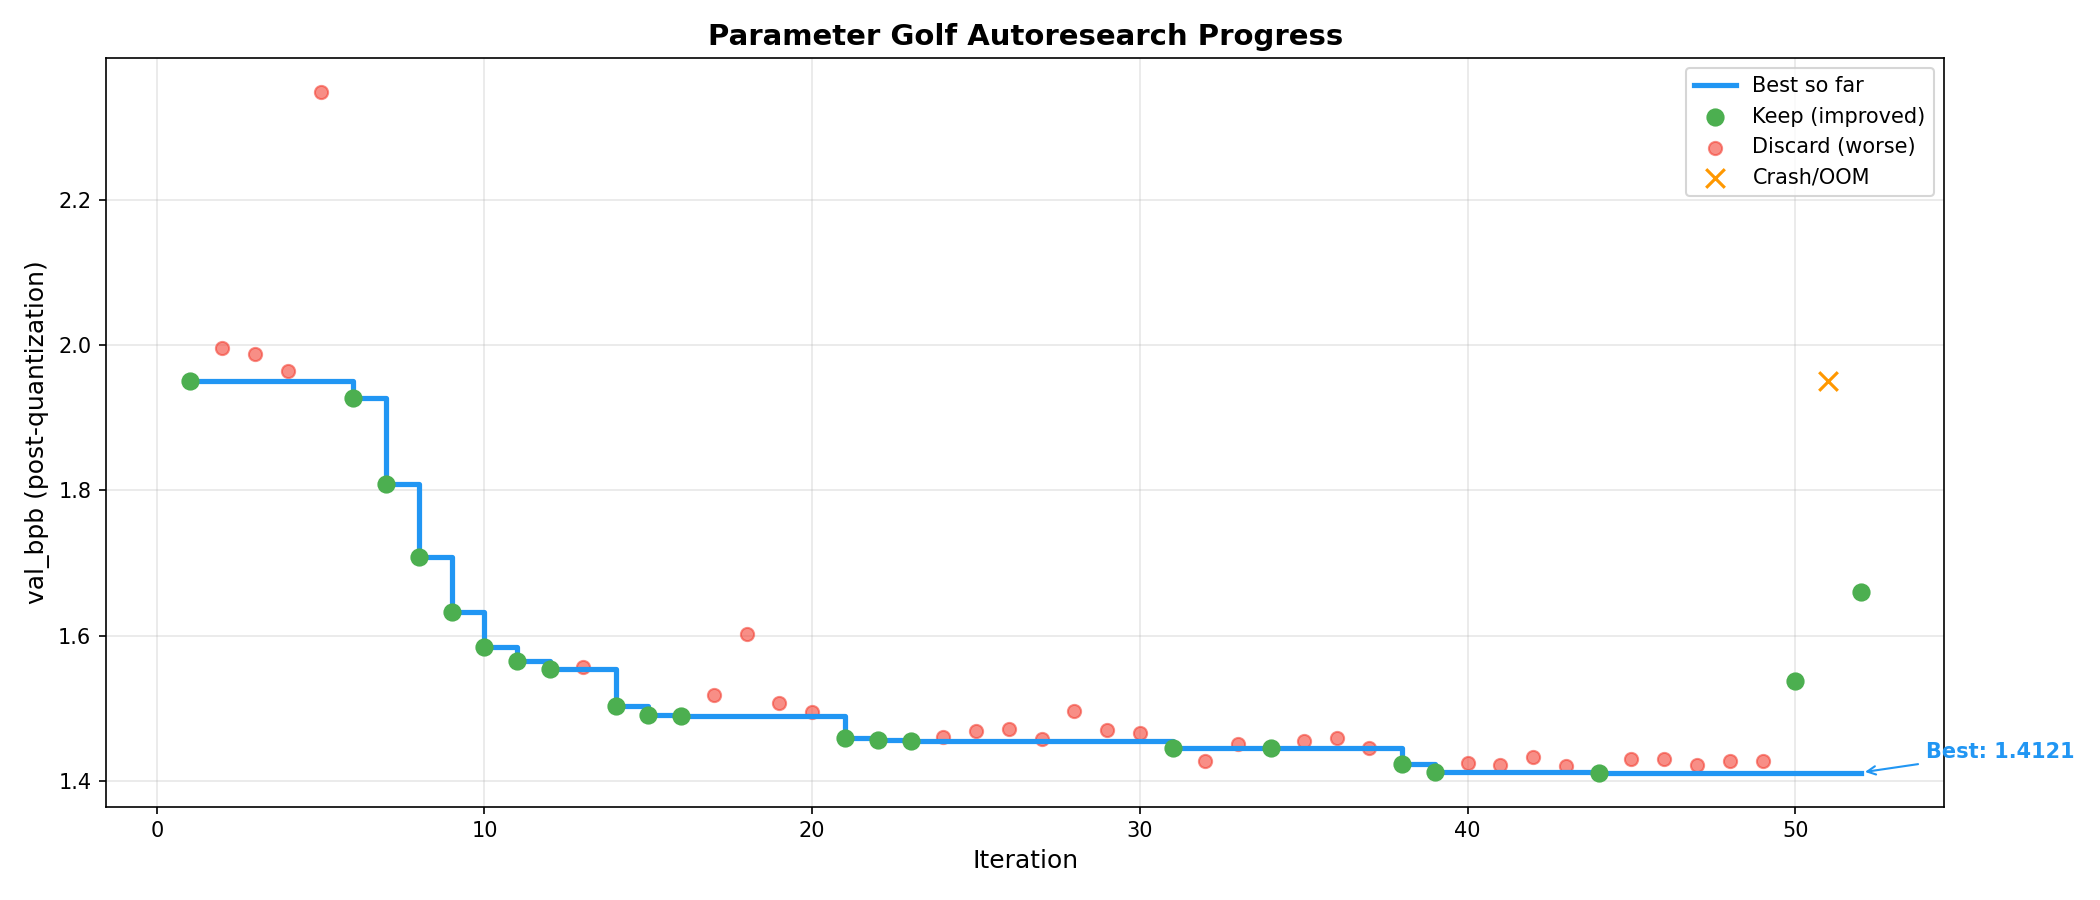
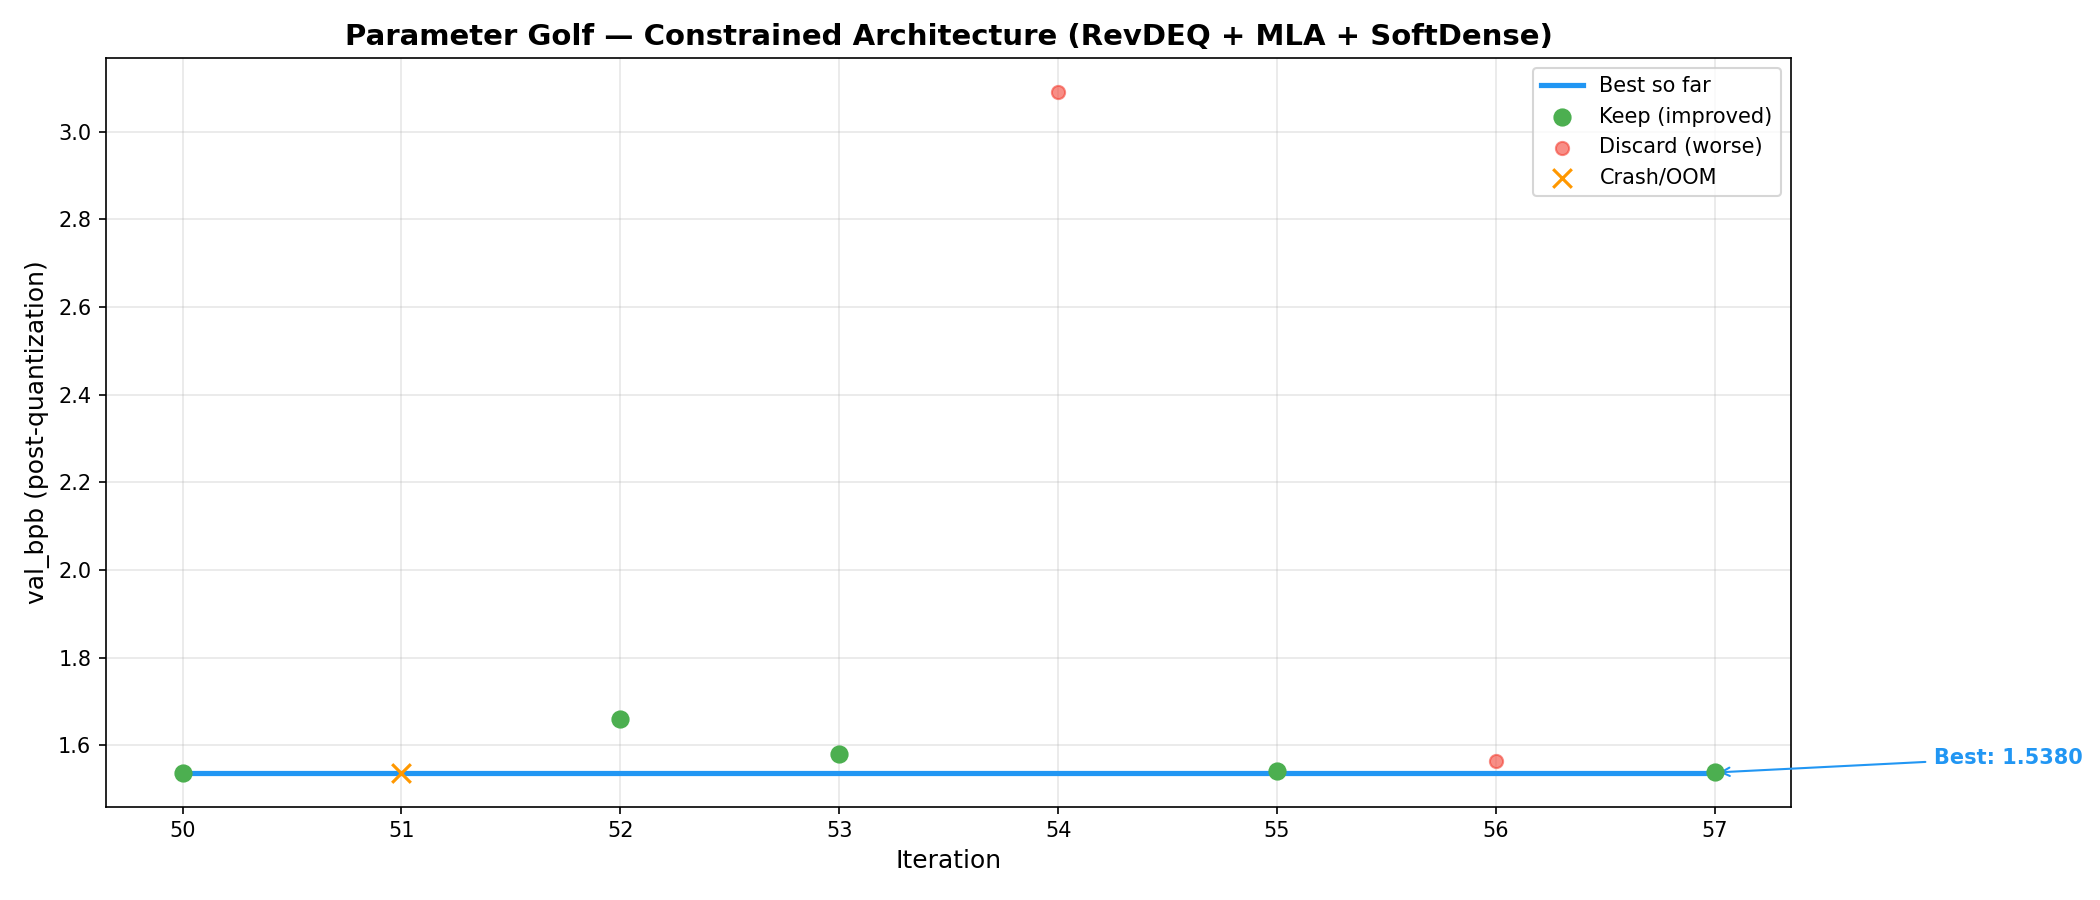
experiment: constrained DEQ with lr=0.10 (lower LR for shared block)
Shared block accumulates gradients across DEQ iterations.
Lower LR may prevent instability from accumulated gradients.

diff --git a/experiments/plot_progress.py b/experiments/plot_progress.py
@@ -1,6 +1,70 @@
-"""Generate autoresearch progress plot from results.tsv."""
-import sys
+"""Generate autoresearch progress plot from results.tsv.
+
+Generates two plots:
+1. progress.png — constrained-only iterations (satisfying RevDEQ+MLA+SoftDense)
+2. progress_full.png — all iterations including unconstrained exploration
+"""
 from pathlib import Path
+
+# Constrained iterations start at this index (0-based) in results.tsv
+CONSTRAINED_START_KEYWORD = "constraint"  # rows with this keyword in description
+
+
+def plot_subset(rows, start_idx, title, outpath, annotate_best=True):
+    """Plot a subset of results."""
+    import matplotlib
+    matplotlib.use("Agg")
+    import matplotlib.pyplot as plt
+
+    fig, ax = plt.subplots(1, 1, figsize=(14, 6))
+    xs_keep, ys_keep = [], []
+    xs_discard, ys_discard = [], []
+    xs_crash, ys_crash = [], []
+    best_bpb = float("inf")
+    best_xs, best_ys = [], []
+
+    for i, (bpb, status, desc) in enumerate(rows):
+        x = start_idx + i + 1
+        if status == "keep":
+            xs_keep.append(x)
+            ys_keep.append(bpb)
+            if bpb < best_bpb:
+                best_bpb = bpb
+            best_xs.append(x)
+            best_ys.append(best_bpb)
+        elif status == "crash":
+            xs_crash.append(x)
+            ys_crash.append(max(ys_keep) if ys_keep else 2.0)
+        else:
+            xs_discard.append(x)
+            ys_discard.append(bpb)
+
+    if best_xs:
+        ax.step(best_xs, best_ys, where="post", color="#2196F3", linewidth=2.5,
+                label="Best so far", zorder=3)
+    ax.scatter(xs_keep, ys_keep, c="#4CAF50", s=60, zorder=4, label="Keep (improved)")
+    ax.scatter(xs_discard, ys_discard, c="#F44336", s=40, alpha=0.6, zorder=2, label="Discard (worse)")
+    if xs_crash:
+        ax.scatter(xs_crash, ys_crash, c="#FF9800", s=80, marker="x", zorder=5, label="Crash/OOM")
+
+    ax.set_xlabel("Iteration", fontsize=12)
+    ax.set_ylabel("val_bpb (post-quantization)", fontsize=12)
+    ax.set_title(title, fontsize=14, fontweight="bold")
+    ax.legend(loc="upper right", fontsize=10)
+    ax.grid(True, alpha=0.3)
+
+    if annotate_best and best_xs:
+        ax.annotate(f"Best: {best_bpb:.4f}",
+                   xy=(best_xs[-1], best_ys[-1]),
+                   xytext=(best_xs[-1] + 1, best_ys[-1] + 0.02),
+                   fontsize=10, fontweight="bold", color="#2196F3",
+                   arrowprops=dict(arrowstyle="->", color="#2196F3"))
+
+    plt.tight_layout()
+    plt.savefig(str(outpath), dpi=150)
+    plt.close()
+    return best_bpb, len(rows)
+
 
 def main():
     script_dir = Path(__file__).resolve().parent
@@ -14,7 +78,6 @@ def main():
         print("No results to plot")
         return
 
-    header = lines[0].split("\t")
     rows = []
     for line in lines[1:]:
         parts = line.split("\t")
@@ -32,74 +95,40 @@ def main():
         return
 
     try:
-        import matplotlib
-        matplotlib.use("Agg")
-        import matplotlib.pyplot as plt
-        import matplotlib.patches as mpatches
-
-        fig, ax = plt.subplots(1, 1, figsize=(14, 6))
-
-        xs_keep, ys_keep = [], []
-        xs_discard, ys_discard = [], []
-        xs_crash, ys_crash = [], []
-        best_bpb = float("inf")
-        best_xs, best_ys = [], []
-
+        # Find where constrained iterations start
+        constrained_idx = None
         for i, (bpb, status, desc) in enumerate(rows):
-            if status == "keep":
-                xs_keep.append(i + 1)
-                ys_keep.append(bpb)
-                if bpb < best_bpb:
-                    best_bpb = bpb
-                best_xs.append(i + 1)
-                best_ys.append(best_bpb)
-            elif status == "crash":
-                xs_crash.append(i + 1)
-                ys_crash.append(max(ys_keep) if ys_keep else 2.0)
-            else:
-                xs_discard.append(i + 1)
-                ys_discard.append(bpb)
+            if CONSTRAINED_START_KEYWORD in desc.lower():
+                constrained_idx = i
+                break
 
-        # Plot best-so-far line
-        if best_xs:
-            ax.step(best_xs, best_ys, where="post", color="#2196F3", linewidth=2.5,
-                    label="Best so far", zorder=3)
+        # Plot constrained-only (main plot)
+        if constrained_idx is not None:
+            constrained_rows = rows[constrained_idx:]
+            best, n = plot_subset(
+                constrained_rows, constrained_idx,
+                "Parameter Golf — Constrained Architecture (RevDEQ + MLA + SoftDense)",
+                script_dir / "progress.png"
+            )
+            print(f"Saved progress.png (constrained: {n} iters, best={best:.4f})")
+        else:
+            # No constrained rows found, plot all
+            best, n = plot_subset(rows, 0, "Parameter Golf Autoresearch Progress",
+                                  script_dir / "progress.png")
+            print(f"Saved progress.png ({n} iterations, best={best:.4f})")
 
-        # Plot individual experiments
-        ax.scatter(xs_keep, ys_keep, c="#4CAF50", s=60, zorder=4, label="Keep (improved)")
-        ax.scatter(xs_discard, ys_discard, c="#F44336", s=40, alpha=0.6, zorder=2, label="Discard (worse)")
-        if xs_crash:
-            ax.scatter(xs_crash, ys_crash, c="#FF9800", s=80, marker="x", zorder=5, label="Crash/OOM")
-
-        ax.set_xlabel("Iteration", fontsize=12)
-        ax.set_ylabel("val_bpb (post-quantization)", fontsize=12)
-        ax.set_title("Parameter Golf Autoresearch Progress", fontsize=14, fontweight="bold")
-        ax.legend(loc="upper right", fontsize=10)
-        ax.grid(True, alpha=0.3)
-
-        # Add annotation for best result
-        if best_xs:
-            ax.annotate(f"Best: {best_bpb:.4f}",
-                       xy=(best_xs[-1], best_ys[-1]),
-                       xytext=(best_xs[-1] + 2, best_ys[-1] + 0.02),
-                       fontsize=10, fontweight="bold", color="#2196F3",
-                       arrowprops=dict(arrowstyle="->", color="#2196F3"))
-
-        plt.tight_layout()
-        plt.savefig(str(script_dir / "progress.png"), dpi=150)
-        print(f"Saved progress.png ({len(rows)} iterations, best={best_bpb:.4f})")
+        # Plot full history
+        best_full, n_full = plot_subset(rows, 0, "Parameter Golf — Full Experiment History",
+                                        script_dir / "progress_full.png")
+        print(f"Saved progress_full.png ({n_full} iterations, best={best_full:.4f})")
 
     except ImportError:
-        # Fallback: text-based progress display
-        print("matplotlib not available, showing text summary:")
-        print(f"{'Iter':>4} {'val_bpb':>8} {'Status':>8} Description")
-        print("-" * 60)
+        print("matplotlib not available")
         best = float("inf")
         for i, (bpb, status, desc) in enumerate(rows):
-            marker = ""
+            marker = " <-- NEW BEST" if status == "keep" and bpb < best else ""
             if status == "keep" and bpb < best:
                 best = bpb
-                marker = " <-- NEW BEST"
             print(f"{i+1:>4} {bpb:>8.4f} {status:>8} {desc[:40]}{marker}")
         print(f"\nBest val_bpb: {best:.4f}")
 

diff --git a/train_gpt.py b/train_gpt.py
@@ -71,8 +71,8 @@ class Hyperparameters:
     head_lr = float(os.environ.get("HEAD_LR", 0.008))
     tied_embed_lr = float(os.environ.get("TIED_EMBED_LR", 0.03))
     tied_embed_init_std = float(os.environ.get("TIED_EMBED_INIT_STD", 0.005))
-    matrix_lr = float(os.environ.get("MATRIX_LR", 0.20))
-    scalar_lr = float(os.environ.get("SCALAR_LR", 0.20))
+    matrix_lr = float(os.environ.get("MATRIX_LR", 0.10))
+    scalar_lr = float(os.environ.get("SCALAR_LR", 0.10))
     muon_momentum = float(os.environ.get("MUON_MOMENTUM", 0.99))
     muon_backend_steps = int(os.environ.get("MUON_BACKEND_STEPS", 5))
     muon_momentum_warmup_start = float(os.environ.get("MUON_MOMENTUM_WARMUP_START", 0.92))
